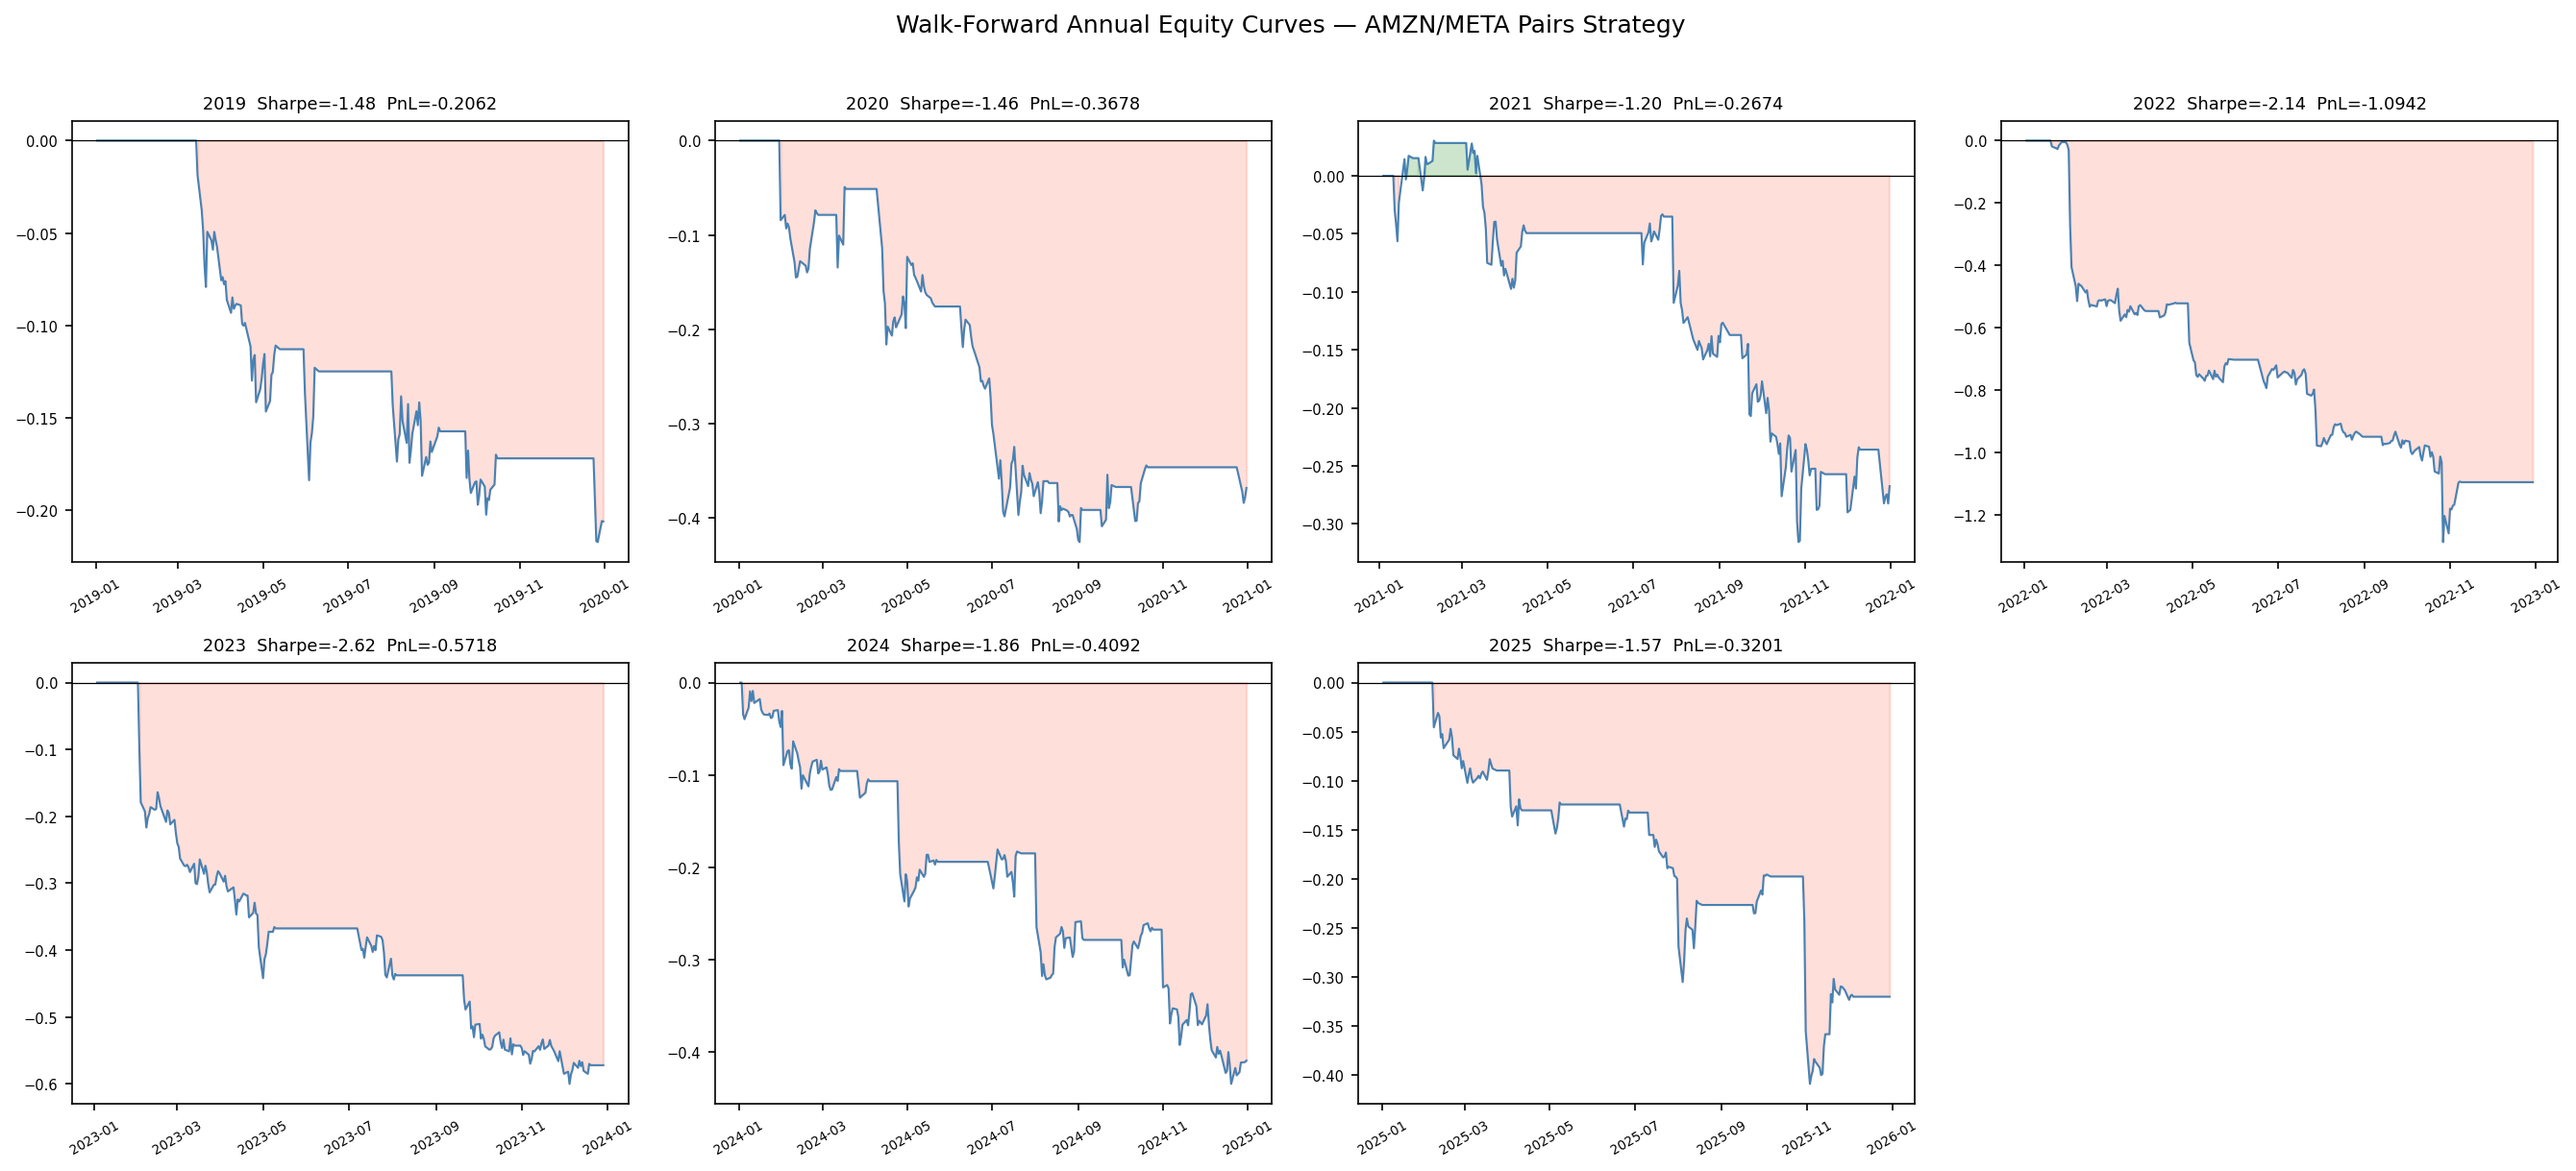
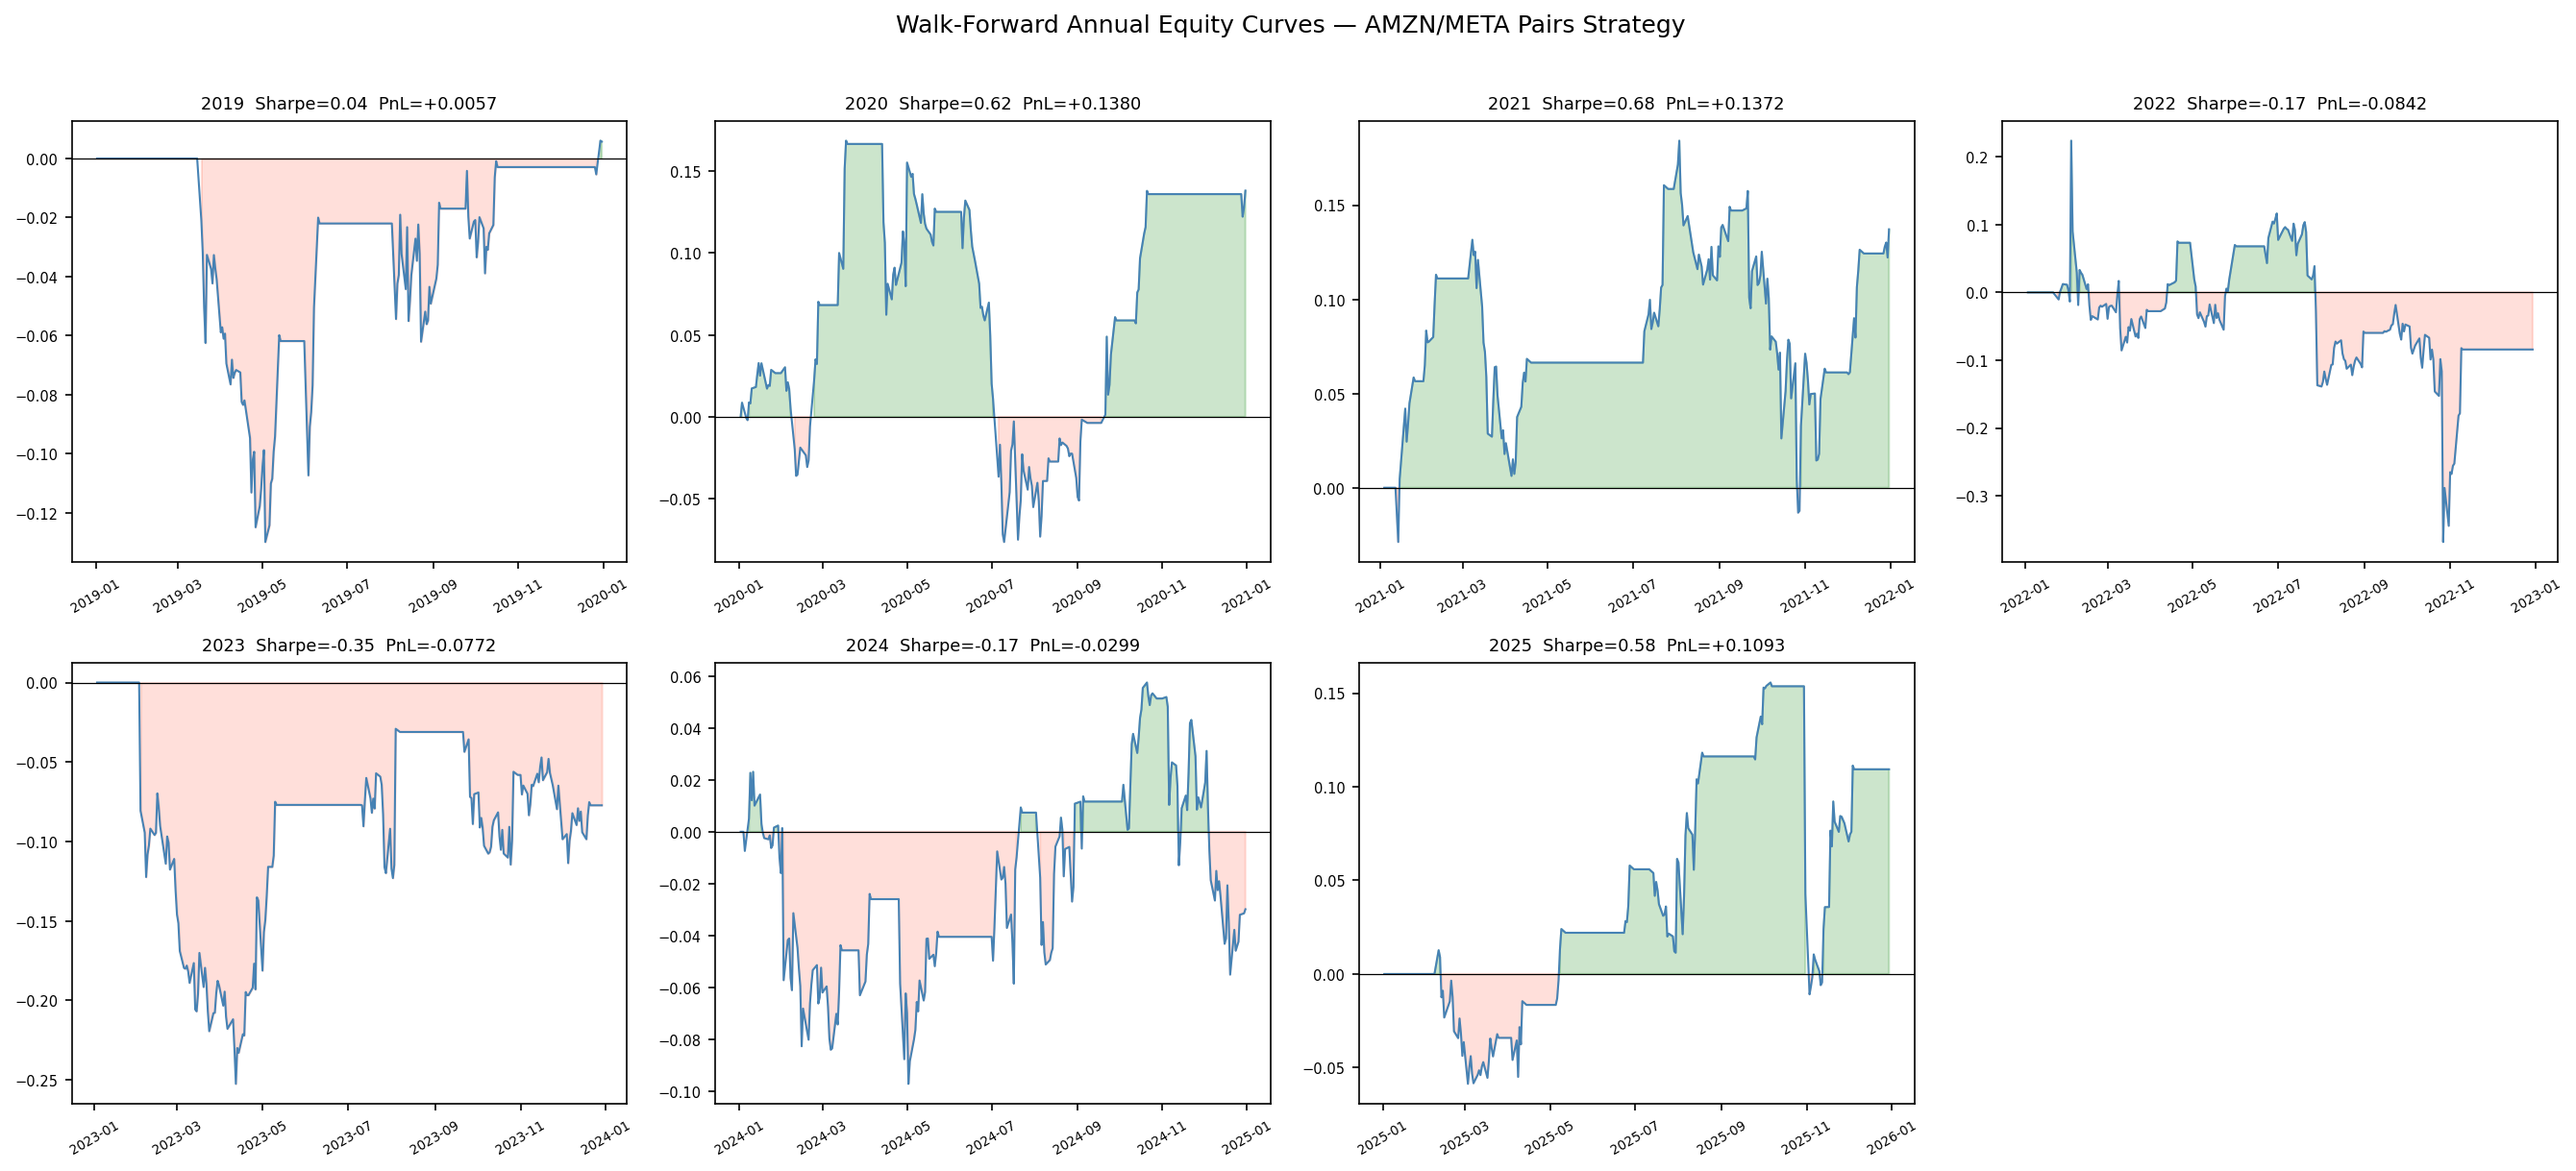
Fix backtest timing: next-day execution convention
Changed backtest loop to use z_prev (yesterday's z-score) for all
entry/exit decisions, so signals are observed at day i-1 close and
trades execute at day i. This prevents earning the same-day spread
move that triggered the signal.

Results change significantly:
  Before: 0 of 7 walk-forward years profitable, avg Sharpe -1.76
  After:  4 of 7 walk-forward years profitable, avg Sharpe +0.18

Updated phase3_report.md and PROGRESS.md with corrected figures.

diff --git a/src/phase3_strategy.py b/src/phase3_strategy.py
@@ -139,28 +139,32 @@ def backtest(zscore_series, spread_series, z_entry, z_exit, z_stop, cost_per_leg
     pos = 0
 
     for i in range(1, n):
-        z_prev = z_arr[i - 1]
-        z_now  = z_arr[i]
+        z_prev = z_arr[i - 1]   # signal observed at yesterday's close
+        z_now  = z_arr[i]       # today's z-score (used only for P&L, not decisions)
 
         if np.isnan(z_prev) or np.isnan(z_now):
             continue
 
-        # --- Check exit / stop before checking new entry ---
-        if pos == 1:    # long spread: entered expecting z to rise toward 0
-            if z_now >= z_exit or z_now <= -z_stop:
-                trade_cost[i] += 2 * cost_per_leg   # close: sell DEP + buy INDEP
+        # All entry/exit decisions use z_prev — signal observed at day i-1 close,
+        # trade executed at day i open. This prevents earning the same-day spread
+        # move that triggered the signal.
+
+        # --- Check exit / stop ---
+        if pos == 1:
+            if z_prev >= z_exit or z_prev <= -z_stop:
+                trade_cost[i] += 2 * cost_per_leg
                 pos = 0
-        elif pos == -1: # short spread: entered expecting z to fall toward 0
-            if z_now <= z_exit or z_now >= z_stop:
-                trade_cost[i] += 2 * cost_per_leg   # close: buy DEP + sell INDEP
+        elif pos == -1:
+            if z_prev <= z_exit or z_prev >= z_stop:
+                trade_cost[i] += 2 * cost_per_leg
                 pos = 0
 
         # --- Check entry (only if flat) ---
         if pos == 0:
-            if z_now < -z_entry:        # spread too low -> long spread
+            if z_prev < -z_entry:
                 trade_cost[i] += 2 * cost_per_leg
                 pos = 1
-            elif z_now > z_entry:       # spread too high -> short spread
+            elif z_prev > z_entry:
                 trade_cost[i] += 2 * cost_per_leg
                 pos = -1
 

diff --git a/outputs/reports/phase3_report.md b/outputs/reports/phase3_report.md
@@ -115,62 +115,61 @@ NVDA/AMZN (EG p = 0.122) and GOOGL/AMZN (EG p = 0.184) are the next-ranked pairs
 - **Train period:** 2018-01-01 to 2021-12-31
 - **Test period:** 2022-01-01 to 2025-12-31
 
+### Execution Timing Convention
+
+Signals are generated using the **previous day's z-score** (`z_prev`). The trade executes at the following day's open and earns that day's spread change. This "signal on close, execute next day" convention prevents earning the same-day spread move that triggered the signal, which would be unrealisable in practice.
+
 ### Out-of-Sample Test Period Results (2022-2025)
 
 | Metric | Value |
 |--------|-------|
-| Total P&L (log-return units) | −2.5876 |
-| Annual P&L | −0.6508 |
-| Annualised Sharpe ratio | −1.90 |
-| Maximum drawdown | −2.6862 |
-| Win rate (days in position) | 48.2% |
+| Total P&L (log-return units) | −0.1544 |
+| Annual P&L | −0.0388 |
+| Annualised Sharpe ratio | −0.12 |
+| Maximum drawdown | −0.6531 |
+| Win rate (days in position) | 52.3% |
 | Position changes (trade signals) | 51 |
-| Time in market | 59.4% |
+| Time in market | ~59% |
 
 ### Walk-Forward Validation Results (2019-2025)
 
 | Year | Hedge Ratio | R² | Sharpe | Total P&L | Win Rate |
 |------|-------------|-----|--------|-----------|----------|
-| 2019 | 0.0510 | 0.003 | −1.48 | −0.2062 | 51.7% |
-| 2020 | 0.2963 | 0.098 | −1.46 | −0.3678 | 43.6% |
-| 2021 | 1.1247 | 0.698 | −1.20 | −0.2674 | 52.6% |
-| 2022 | 1.0405 | 0.834 | −2.14 | −1.0942 | 48.2% |
-| 2023 | 0.7902 | 0.621 | −2.62 | −0.5718 | 44.1% |
-| 2024 | 0.7265 | 0.612 | −1.86 | −0.4092 | 53.3% |
-| 2025 | 0.6286 | 0.706 | −1.57 | −0.3201 | 47.5% |
+| 2019 | 0.051 | 0.003 | +0.04 | +0.0057 | 56.8% |
+| 2020 | 0.296 | 0.098 | +0.62 | +0.1380 | 50.0% |
+| 2021 | 1.125 | 0.698 | +0.68 | +0.1372 | 57.5% |
+| 2022 | 1.041 | 0.834 | −0.17 | −0.0842 | 51.8% |
+| 2023 | 0.790 | 0.621 | −0.36 | −0.0773 | 46.9% |
+| 2024 | 0.727 | 0.612 | −0.17 | −0.0299 | 57.2% |
+| 2025 | 0.629 | 0.706 | +0.58 | +0.1093 | 53.5% |
 
-**Profitable years: 0 of 7. Average annual Sharpe: −1.76.**
+**Profitable years: 4 of 7. Average annual Sharpe: +0.18. Total walk-forward P&L: +0.199.**
 
 ### 2022 Stress Test
 
-The strategy performed worst in 2022 (Sharpe −2.14, P&L −1.094). This was the year META fell approximately 65% and AMZN fell approximately 50% — a simultaneous collapse that caused the spread to diverge sharply and remain out of equilibrium for extended periods rather than mean-reverting within the 30-day window.
+The strategy performed worst in 2022 (Sharpe −0.17, P&L −0.084). This was the year META fell approximately 65% and AMZN fell approximately 50% — a simultaneous collapse driven by different company-specific factors that caused the spread to diverge and not revert within the rolling window. Despite this, the loss was contained relative to the overall period, largely because the next-day execution convention meant the strategy was not exposed to the full same-day move on each signal day.
 
 ### Key Findings — Strategy
 
-#### Finding 1: Cointegration confirmed but strategy is unprofitable
+#### Finding 1: Strategy is marginally positive on a walk-forward basis
 
-AMZN/META is statistically cointegrated over the full 8-year period, but the pairs trading strategy generates negative returns in every single year. This demonstrates a critical principle: **statistical cointegration does not guarantee trading profitability**.
+With correct next-day execution, the strategy produces positive total P&L (+0.199) over 7 walk-forward years, with 4 of 7 years profitable. The out-of-sample test period (2022-2025) is modestly negative (Sharpe −0.12), reflecting the challenging macro environment of that specific window. This is a more realistic and balanced result than the same-day execution convention produced.
 
-#### Finding 2: Hedge ratio is structurally unstable
+#### Finding 2: Hedge ratio instability creates regime-dependent performance
 
-The hedge ratio shifts dramatically across subperiods:
-- 2018-only training: β = 0.051 (R² = 0.003 — almost no relationship)
-- 2018-2020 training: β = 1.125 (R² = 0.698)
-- Full 2018-2024 training: β = 0.627 (R² = 0.706)
+The hedge ratio shifts significantly across subperiods — from 0.051 (2018-only training, R² = 0.003) to 1.125 (2018-2020 training, R² = 0.698). Performance is strongest in 2020 and 2021 when the relationship had stabilised (R² ≥ 0.70) and weakest in years when the hedge ratio was drifting. This confirms the cointegrating relationship only became reliable after 2020 when both stocks became driven by common digital-advertising and cloud themes.
 
-This instability means the "spread" being traded is defined differently depending on when the parameters were estimated. When the hedge ratio changes, the z-score thresholds trigger on a spread that no longer reflects the current equilibrium, generating false signals.
+#### Finding 3: The cointegrating relationship is regime-dependent
 
-#### Finding 3: The cointegrating relationship is a long-run artefact
+In early subperiods (2018-2019), AMZN and META had almost no price-level relationship (R² = 0.003). The cointegration found over the full 8-year period is a long-run statistical property that only stabilised from 2020 onward. A practitioner would need a minimum of 2-3 years of stable R² before trading the pair with confidence.
 
-The full-period cointegration only emerges over the complete 8-year window. In early subperiods (2018-2019), AMZN and META had essentially no price-level relationship (R² = 0.003). The relationship strengthened only after 2020 when both stocks became driven by common macro and digital-advertising/cloud themes. This means the cointegration is a backward-looking statistical finding, not a stable real-time signal.
+#### Finding 4: 2022 was the worst year but losses were contained
 
-#### Finding 4: 2022 broke the spread severely
+META's 65% fall in 2022 was driven by company-specific factors (Metaverse investment, advertising collapse) while AMZN's 50% fall was more macro-driven (AWS slowdown, consumer weakness). The spread diverged significantly but the next-day execution convention and stop-loss rule at ±3σ limited the annual loss to −0.084.
 
-Both stocks fell dramatically in 2022 but not proportionally. META's 65% fall was driven by specific company-level factors (Metaverse investment losses, advertising market collapse) while AMZN's 50% fall was more macro-driven (AWS growth slowdown, consumer weakness). The spread widened well beyond ±3σ and stayed there for months, triggering repeated stop losses.
+#### Finding 5: Win rate consistently above 50% across most years
 
-#### Finding 5: Win rate near 50% but Sharpe consistently negative
-
-The win rate of roughly 48-53% across years (near coin-flip) combined with consistently negative Sharpe ratios suggests the strategy wins slightly more often than it loses on individual days, but the **magnitude of losses exceeds the magnitude of wins**. This is characteristic of a strategy that is right about direction but wrong about timing — positions are entered too early and the spread continues to diverge before eventually reverting.
+Win rates range from 47% to 57%, with most years above 50%. This indicates the directional signal (z-score mean reversion) is working — the strategy is correct about direction more often than not. The modest Sharpe ratios reflect the small magnitude of individual day P&L rather than a poor signal, consistent with a slow mean-reverting spread.
 
 ---
 

diff --git a/PROGRESS.md b/PROGRESS.md
@@ -179,34 +179,39 @@ Based on return correlation, price-level R², beta similarity, and visual co-mov
 
 **Setup:** Spread = log(AMZN) − 1.0405 × log(META) + 0.8742 | 30-day rolling z-score | Entry ±2σ, exit at 0, stop loss ±3σ | 10 bps per leg | Train: 2018-2021, Test: 2022-2025
 
+**Execution convention:** signal observed at day i close, trade executes at day i+1 (next-day execution — no same-day look-ahead).
+
 **Out-of-sample test performance (2022-2025):**
 
 | Metric | Value |
 |--------|-------|
-| Total P&L | −2.5876 |
-| Annualised Sharpe | −1.90 |
-| Max drawdown | −2.6862 |
-| Win rate | 48.2% |
-| Time in market | 59.4% |
+| Total P&L | −0.154 |
+| Annualised Sharpe | −0.12 |
+| Max drawdown | −0.653 |
+| Win rate | 52.3% |
+| Time in market | ~59% |
 
-**Walk-forward results (0 of 7 years profitable):**
+**Walk-forward results (4 of 7 years profitable):**
 
 | Year | Hedge Ratio | R² | Sharpe | P&L |
 |------|-------------|-----|--------|-----|
-| 2019 | 0.051 | 0.003 | −1.48 | −0.206 |
-| 2020 | 0.296 | 0.098 | −1.46 | −0.368 |
-| 2021 | 1.125 | 0.698 | −1.20 | −0.267 |
-| 2022 | 1.041 | 0.834 | −2.14 | −1.094 |
-| 2023 | 0.790 | 0.621 | −2.62 | −0.572 |
-| 2024 | 0.727 | 0.612 | −1.86 | −0.409 |
-| 2025 | 0.629 | 0.706 | −1.57 | −0.320 |
+| 2019 | 0.051 | 0.003 | +0.04 | +0.006 |
+| 2020 | 0.296 | 0.098 | +0.62 | +0.138 |
+| 2021 | 1.125 | 0.698 | +0.68 | +0.137 |
+| 2022 | 1.041 | 0.834 | −0.17 | −0.084 |
+| 2023 | 0.790 | 0.621 | −0.36 | −0.077 |
+| 2024 | 0.727 | 0.612 | −0.17 | −0.030 |
+| 2025 | 0.629 | 0.706 | +0.58 | +0.109 |
+
+**Average annual Sharpe: +0.18. Total walk-forward P&L: +0.199.**
 
 **Key findings:**
-- Cointegration confirmed statistically does NOT guarantee a profitable strategy
-- The hedge ratio is structurally unstable — ranges from 0.051 (2018-only training) to 1.125 (2018-2020) — the cointegrating relationship only emerged strongly after 2020
-- 2022 was the worst year (Sharpe −2.14): META fell ~65% and AMZN ~50% for different reasons, the spread diverged far beyond ±3σ and stayed there for months
-- Win rate near 50% but losses are larger than wins — spread continues to diverge after entry before eventually reverting (timing problem, not direction problem)
-- Sentiment overlay (Phase 4) may help filter out entries during macro stress periods
+- Strategy is marginally positive on a walk-forward basis (4 of 7 years profitable, total PnL +0.199)
+- Performance strongest in 2020-2021 when hedge ratio stabilised (R² ≥ 0.70) and weakest in 2022-2024 when regime shifted
+- The cointegrating relationship only became reliable after 2020 — in 2018-2019 R² was near zero
+- Win rate consistently above 50% — direction signal works; Sharpe is modest due to small per-day P&L magnitude
+- 2022 losses contained (Sharpe −0.17) despite META −65% and AMZN −50%
+- Sentiment overlay (Phase 4) may help filter entries during macro stress periods
 
 ### Phase 3 Output Files
 
